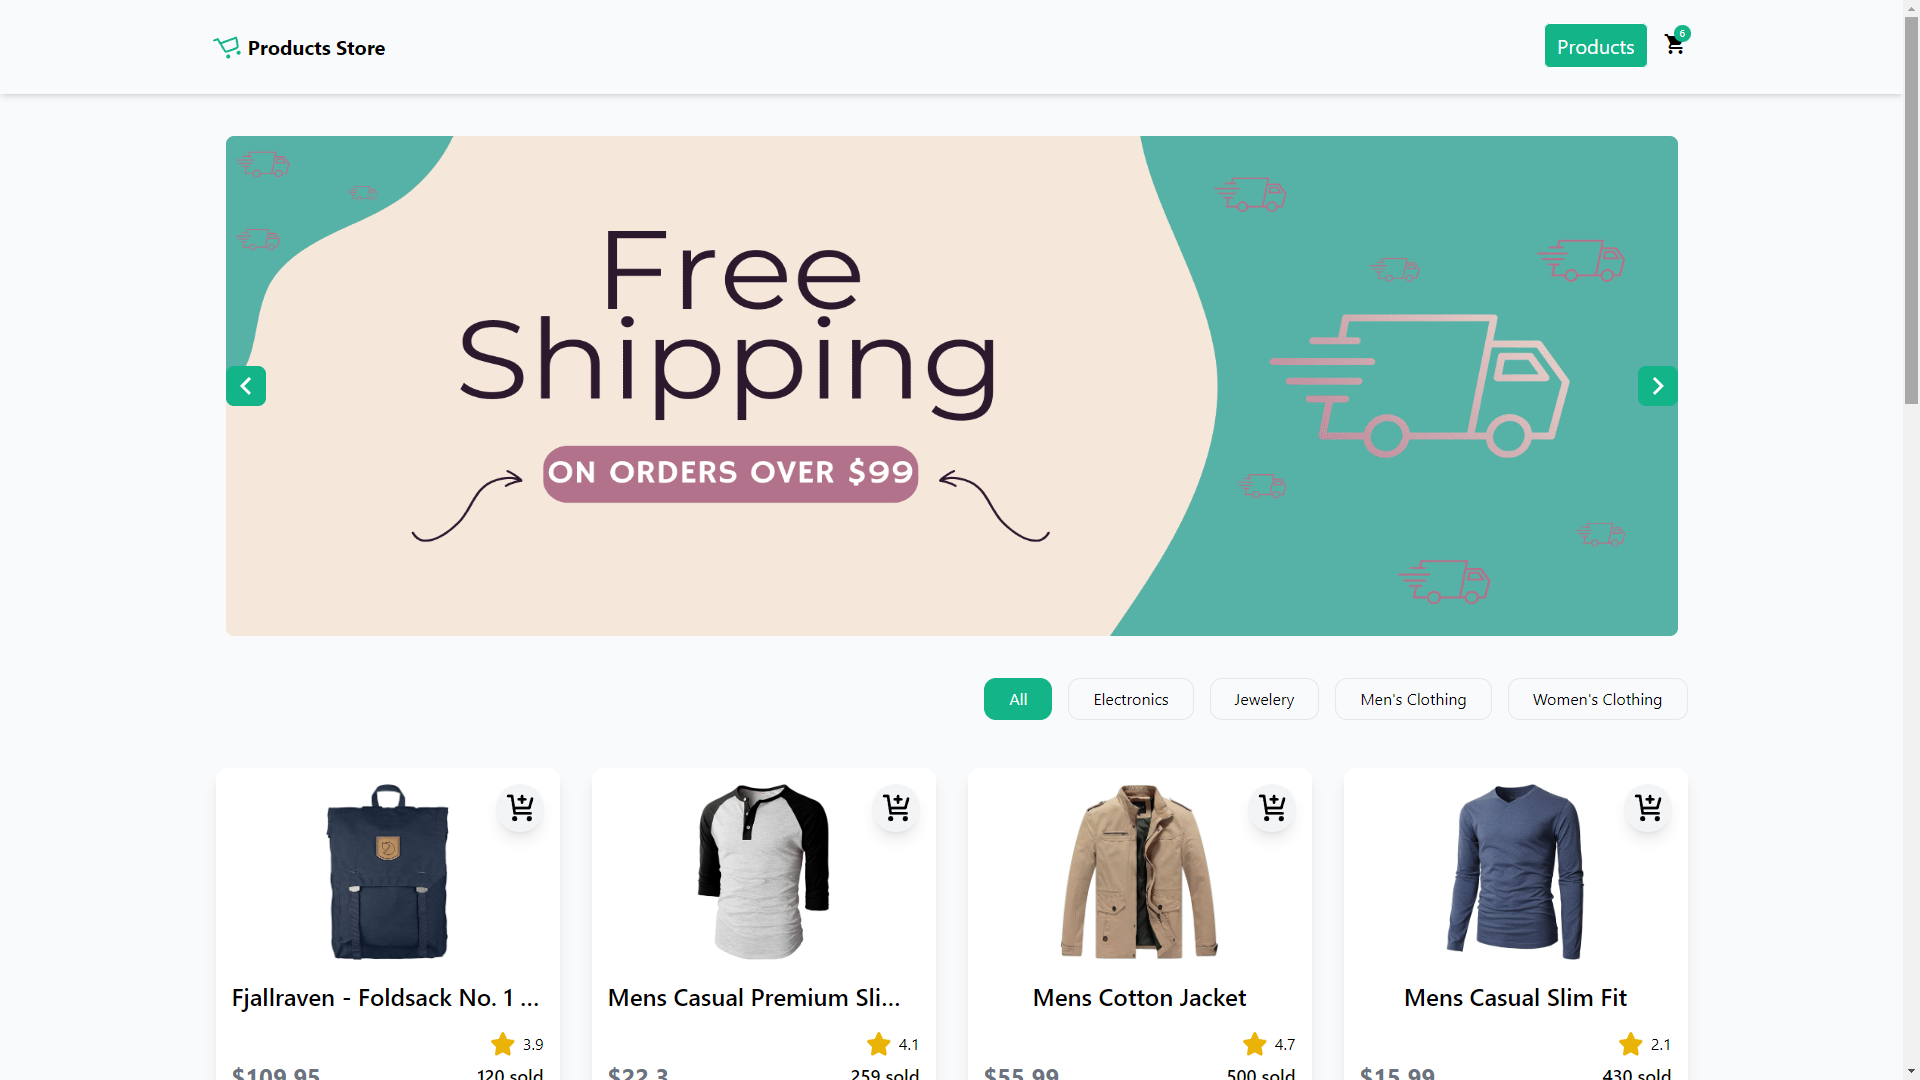
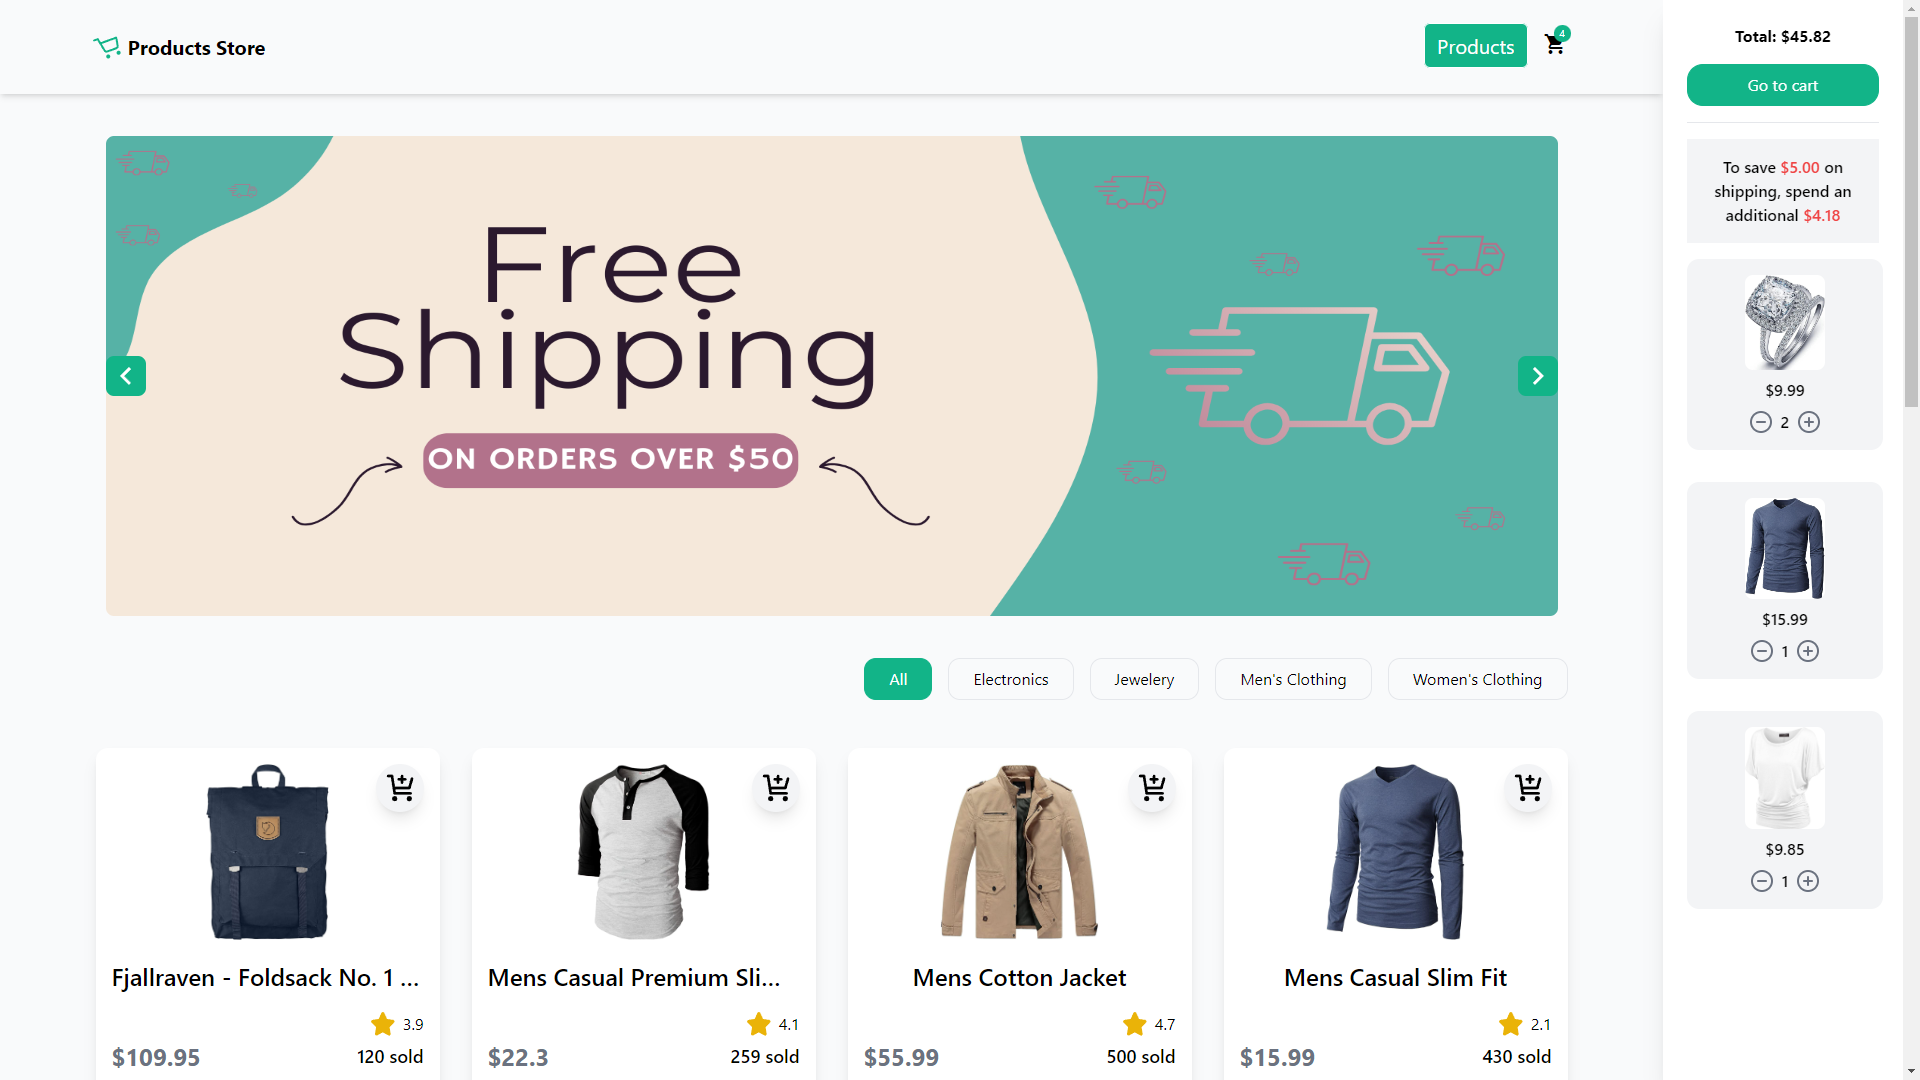
carrinho melhorado

diff --git a/components/ProductCard.vue b/components/ProductCard.vue
@@ -4,12 +4,18 @@
             <img :src="product.image" :alt="product.title">
             <div class="product-details">
                 <div class="flex items-center justify-between w-full">
-                    <h3>{{ product.title }}</h3>
+                    <h3 class="text-[20px] font-bold">{{ product.title }}</h3>
                     <i @click="remove(product.id)"
                         class="material-icons mb-2 cursor-pointer duration-300 hover:text-red-500">delete</i>
                 </div>
                 <p>{{ product.description }}</p>
-                <p class="font-bold">Amount: {{ product.amount }}</p>
+                <div class="amounts">
+                    <h3 class="font-bold">Amount:</h3>
+                    <IconsMinus @click="removeUnitProduct(product.id)"
+                        class="w-[1.5rem] text-gray-500 cursor-pointer" />
+                    <span class="font-semibold">{{ product.amount }}</span>
+                    <IconsPlus @click="addUnitProduct(product)" class="w-[1.5rem] text-gray-500 cursor-pointer" />
+                </div>
                 <p class="text-xl font-semibold">Total price: ${{ product.total.toFixed(2) }}</p>
             </div>
         </div>
@@ -32,11 +38,19 @@ const remove = (id) => {
         $toast.error("There was an error processing your request")
     }
 }
+
+const removeUnitProduct = (id) => {
+    store.removeUnit(id);
+}
+
+const addUnitProduct = (product) => {
+    store.addProduct(product)
+}
 </script>
 
 <style scoped>
 .product {
-    @apply bg-white shadow-md rounded-lg p-4 min-h-[15rem] md:flex md:gap-4;
+    @apply bg-white shadow-md rounded-lg px-4 py-8 min-h-[15rem] md:flex md:gap-4;
 }
 
 .product img {
@@ -44,14 +58,10 @@ const remove = (id) => {
 }
 
 .product-details {
-    @apply max-w-[45rem];
+    @apply max-w-[45rem] space-y-6;
 }
 
-.product-details h3 {
-    @apply text-[20px] font-bold mb-4;
-}
-
-.product-details p {
-    @apply mb-4;
+.amounts {
+    @apply flex items-center gap-2;
 }
 </style>
